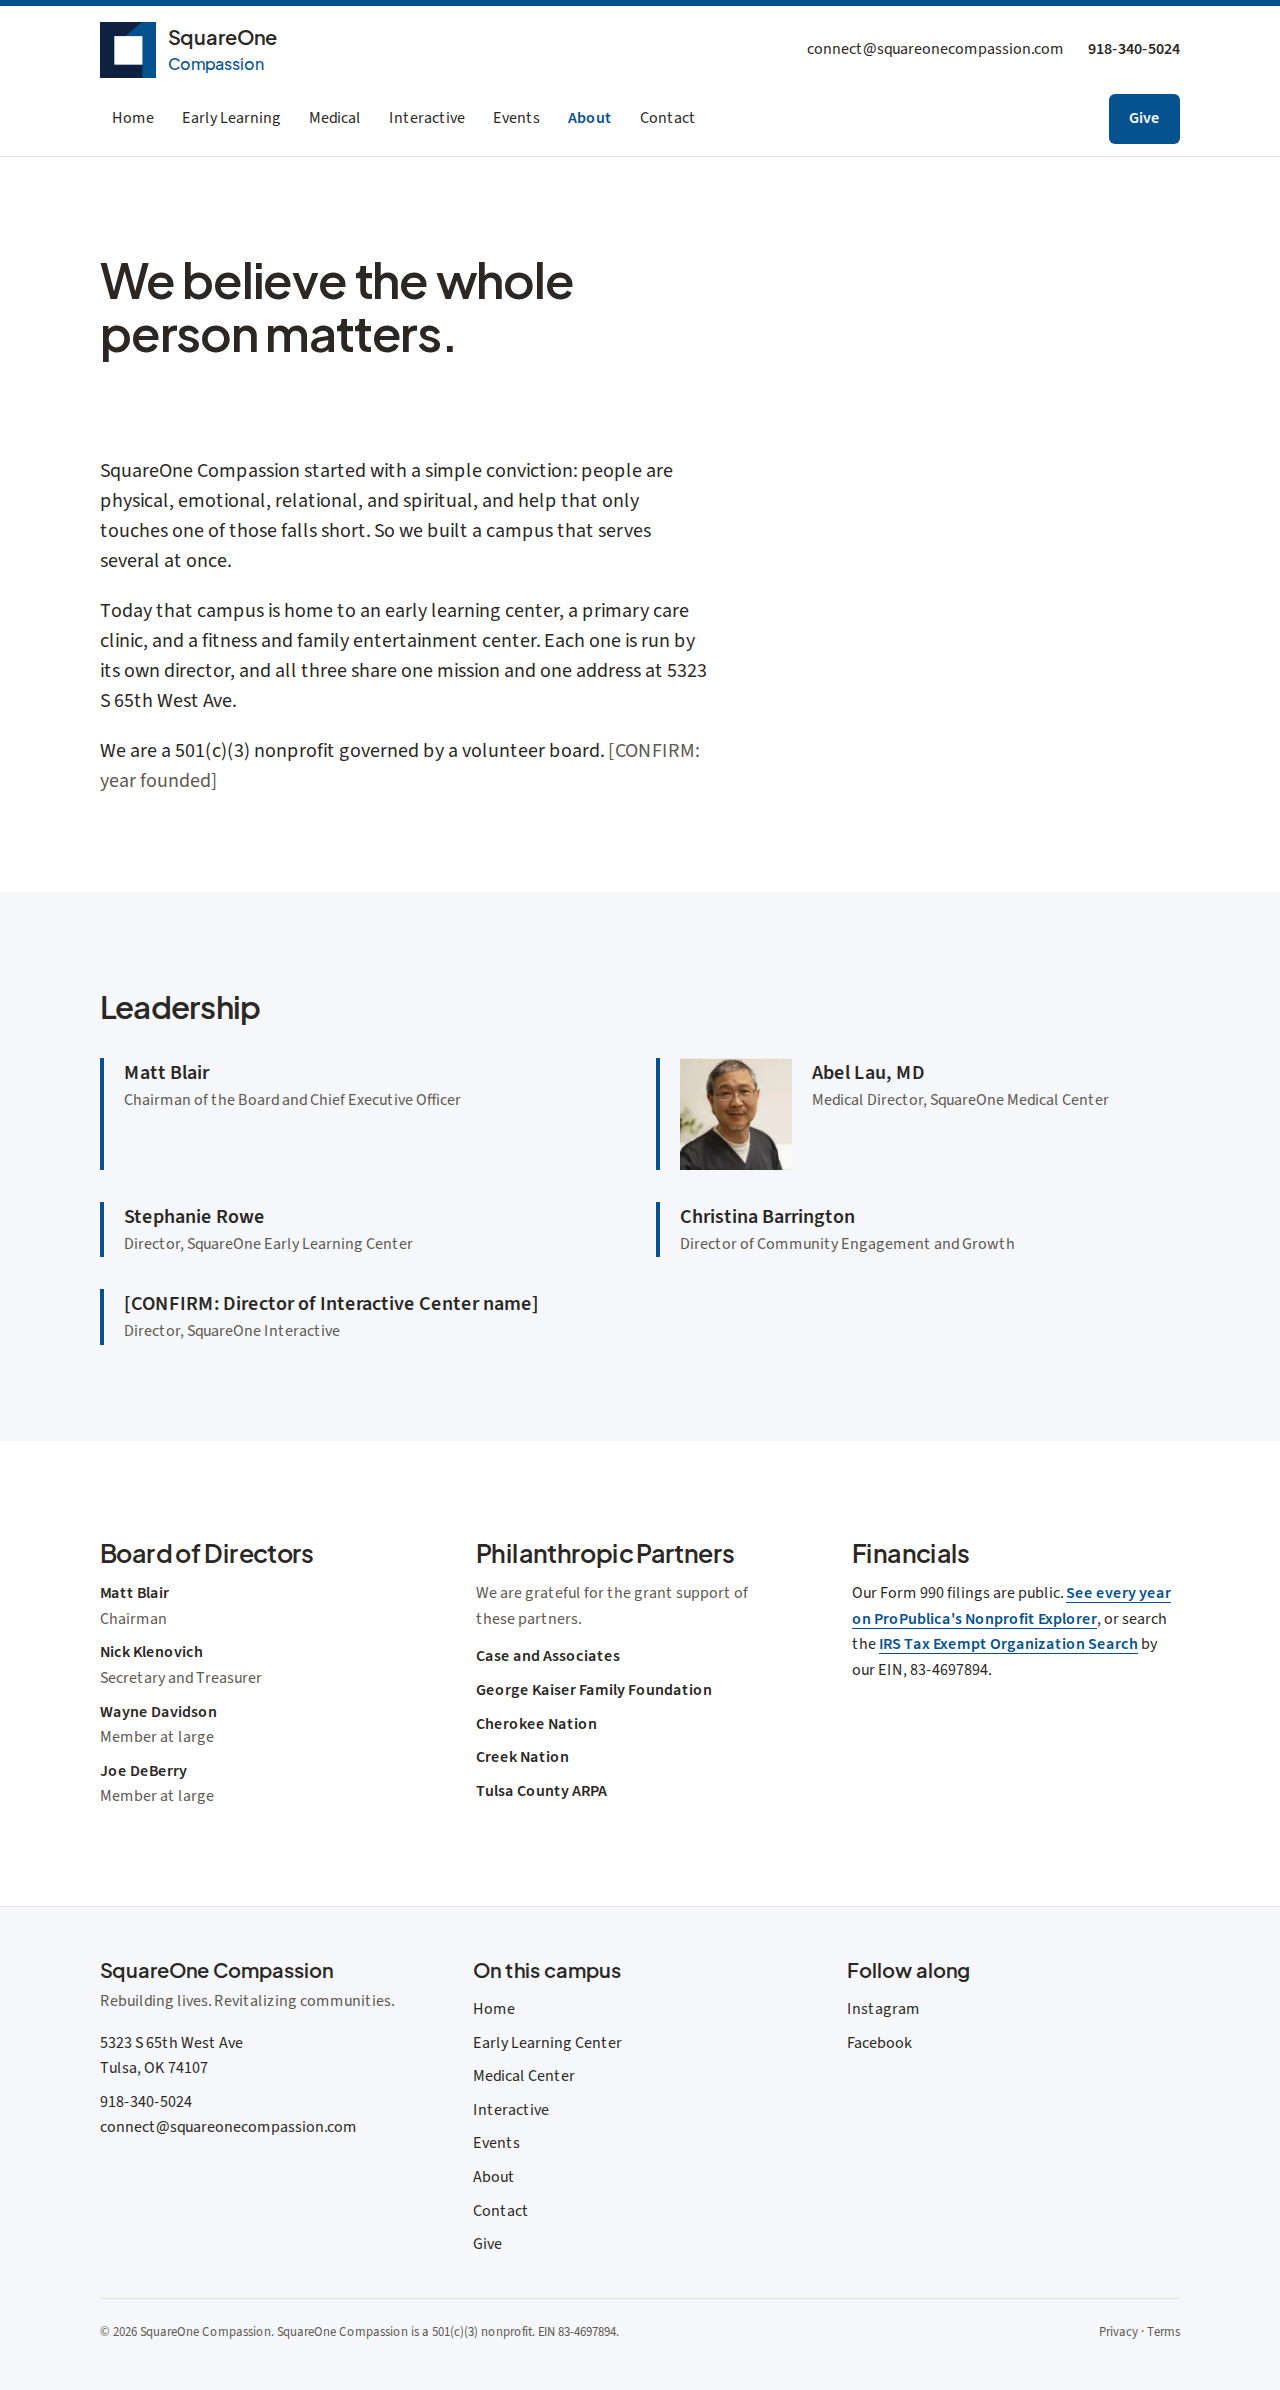
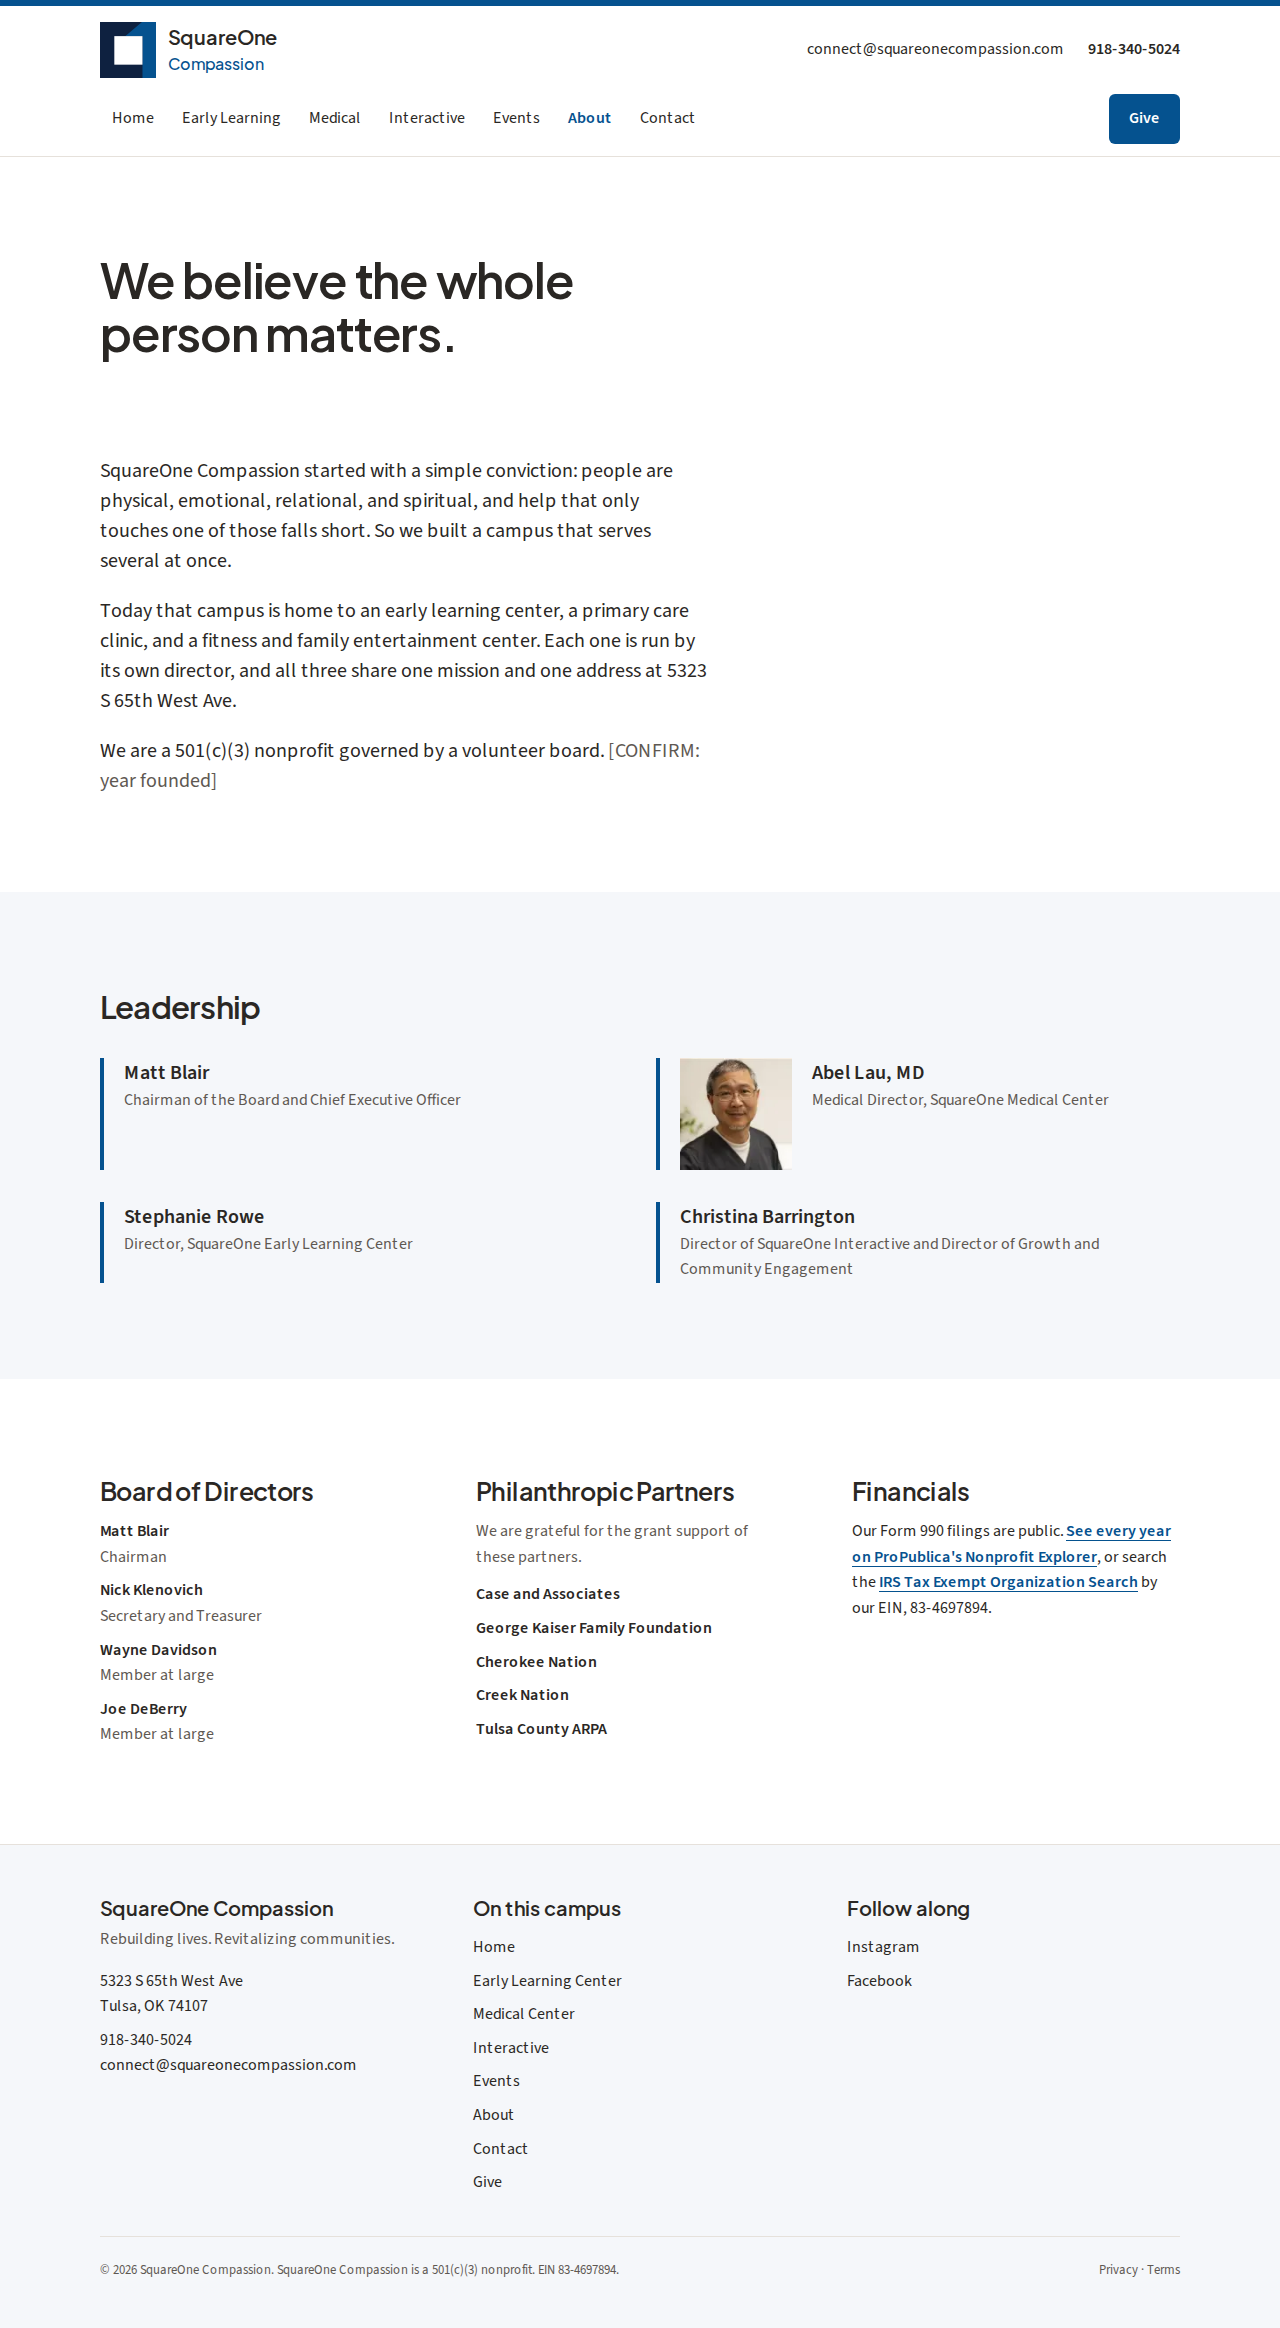
Name Christina Barrington as Director of SquareOne Interactive
Her title on the About page now covers both roles, and the placeholder
card for the Interactive director is removed.

Claude-Session: https://claude.ai/code/session_01Dy1NBE1CDjARVuM4emY1ru

diff --git a/app/about/page.tsx b/app/about/page.tsx
@@ -40,8 +40,7 @@ export default function AboutPage() {
           <StaffCard photo={photo('matt-blair')} name="Matt Blair" role="Chairman of the Board and Chief Executive Officer" />
           <StaffCard photo={photo('abel-lau')} name="Abel Lau, MD" role="Medical Director, SquareOne Medical Center" />
           <StaffCard photo={photo('stephanie-rowe')} name="Stephanie Rowe" role="Director, SquareOne Early Learning Center" />
-          <StaffCard photo={photo('christina-barrington')} name="Christina Barrington" role="Director of Community Engagement and Growth" />
-          <StaffCard name="[CONFIRM: Director of Interactive Center name]" role="Director, SquareOne Interactive" /> {/* CONFIRM */}
+          <StaffCard photo={photo('christina-barrington')} name="Christina Barrington" role="Director of SquareOne Interactive and Director of Growth and Community Engagement" />
         </div>
       </Section>
 

diff --git a/content/COPY.md b/content/COPY.md
@@ -77,8 +77,7 @@ We are a 501(c)(3) nonprofit governed by a volunteer board. `[CONFIRM: year foun
 - Matt Blair — Chairman of the Board and Chief Executive Officer
 - Abel Lau, MD — Medical Director, SquareOne Medical Center
 - Stephanie Rowe — Director, SquareOne Early Learning Center
-- Christina Barrington — Director of Community Engagement and Growth
-- `[CONFIRM: Director of Interactive Center name]`
+- Christina Barrington — Director of SquareOne Interactive and Director of Growth and Community Engagement
 
 **Board of Directors**
 - Matt Blair, Chairman

diff --git a/CONFIRM.md b/CONFIRM.md
@@ -47,7 +47,7 @@ See `.env.example`. Without these:
 
 ### About
 - [ ] Year founded
-- [ ] Director of Interactive Center name
+- [x] Director of Interactive Center: Christina Barrington (also Director of Growth and Community Engagement)
 - [x] Board of Directors listed (Matt Blair, Nick Klenovich, Wayne Davidson, Joe DeBerry)
 - [x] Campus partners block removed; replaced with Philanthropic Partners (grant funders)
 - [x] Financials block links to ProPublica's Nonprofit Explorer by EIN (lists every year automatically) and the IRS Tax Exempt Organization Search.
